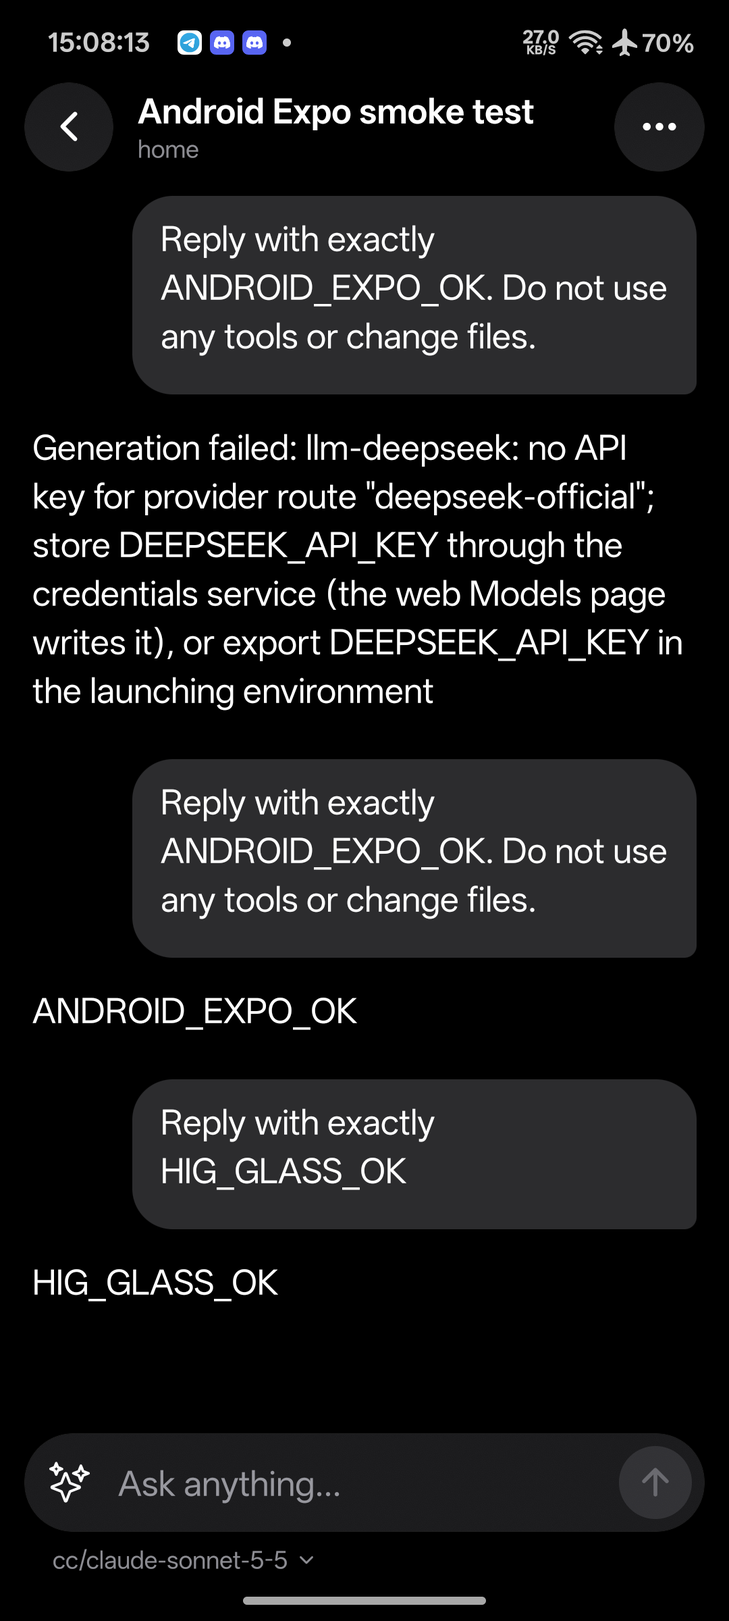
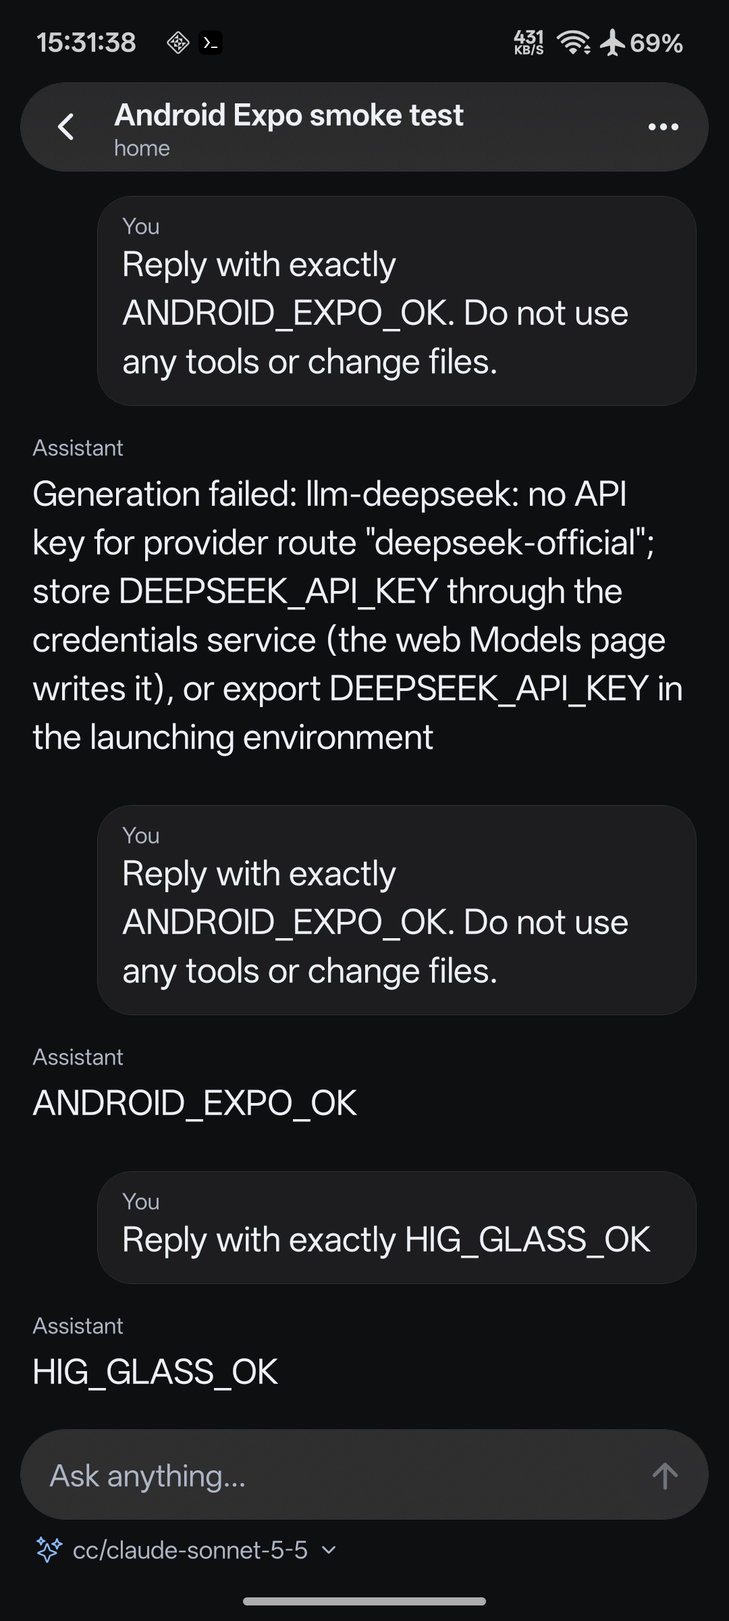
Match approved glass prototype: gray palette, single glass header bar, New task pill, prototype chat and model sheet

diff --git a/src/app/index.tsx b/src/app/index.tsx
@@ -4,8 +4,8 @@ import { Ionicons } from '@expo/vector-icons';
 import { router } from 'expo-router';
 import { useSafeAreaInsets } from 'react-native-safe-area-context';
 import { useApp } from '../state/app';
-import { Button, Empty, ErrorNotice, GlassCluster, IconButton, ScrollEdge, SearchField, Screen, T, slop } from '../components/ui';
-import { Glass, GlassTarget } from '../components/Glass';
+import { Button, Empty, ErrorNotice, Header, IconButton, ScrollEdge, SearchField, Screen, T, slop } from '../components/ui';
+import { Glass, GlassTarget, GlassTargetProvider } from '../components/Glass';
 import { sessionTitle } from '../lib/protocol';
 import { errorMessage } from '../lib/harness';
 import { groupWorkspaces } from '../lib/workspaces';
@@ -13,6 +13,7 @@ import { relativeTime } from '../lib/time';
 
 type Filter = 'All' | 'Working';
 
+/** Workspace tree home — layout and palette follow the approved glass prototype (screen 01). */
 export default function Home() {
   const { colors, sessions, workspaces, client, status, savedUrl, loading, refresh, refreshWorkspace, pending } = useApp();
   const insets = useSafeAreaInsets();
@@ -26,7 +27,7 @@ export default function Home() {
   const toggle = (id: string) => setCollapsed(p => { const next = new Set(p); if (next.has(id)) next.delete(id); else next.add(id); return next; });
   const reload = async () => { setRefreshing(true); try { await refresh(); setError(''); } catch (e) { setError(errorMessage(e)); } finally { setRefreshing(false); } };
   const host = client ? new URL(client.connection.url).host : savedUrl ? new URL(savedUrl).host : '';
-  const statusText = !host ? 'Not connected' : live ? host : status === 'cached' || status === 'disconnected' || status === 'offline' ? `${host} · Offline` : `${host} · Connecting…`;
+  const statusText = !host ? 'Not connected' : live ? host : status === 'connecting' ? `${host} · Connecting…` : `${host} · Offline`;
 
   const workspaceMenu = (title: string, ids: string[]) => {
     const run = () => { void refreshWorkspace(ids).catch(e => setError(errorMessage(e))); };
@@ -41,40 +42,40 @@ export default function Home() {
         stickySectionHeadersEnabled={false}
         keyExtractor={x => x.sessionId}
         keyboardDismissMode="on-drag"
-        refreshControl={<RefreshControl refreshing={refreshing} onRefresh={reload} tintColor={colors.muted} progressViewOffset={56} />}
-        contentContainerStyle={{ paddingTop: 56, paddingBottom: insets.bottom + 96, flexGrow: 1 }}
-        ListHeaderComponent={<View style={{ paddingHorizontal: 16, gap: 10, paddingBottom: 6 }}>
-          <View style={{ paddingTop: 2 }}><T style="largeTitle">Threads</T></View>
-          <Pressable accessibilityRole="button" accessibilityLabel={`Harness: ${statusText}. Change connection`} onPress={() => router.push('/connect')} hitSlop={8} style={{ flexDirection: 'row', alignItems: 'center', gap: 6, alignSelf: 'flex-start', marginTop: -6 }}>
-            <View style={{ width: 7, height: 7, borderRadius: 4, backgroundColor: live ? colors.live : colors.tertiary }} />
-            <T style="subhead" color="secondary" numberOfLines={1}>{statusText}</T>
-            <Ionicons name="chevron-down" size={12} color={colors.muted} />
+        refreshControl={<RefreshControl refreshing={refreshing} onRefresh={reload} tintColor={colors.muted} progressViewOffset={60} />}
+        contentContainerStyle={{ paddingTop: 60, paddingBottom: insets.bottom + 90, flexGrow: 1 }}
+        ListHeaderComponent={<View style={{ paddingHorizontal: 12, gap: 10, paddingBottom: 4 }}>
+          <Pressable accessibilityRole="button" accessibilityLabel={`Harness: ${statusText}. Change connection`} onPress={() => router.push('/connect')} hitSlop={10} style={{ flexDirection: 'row', alignItems: 'center', gap: 6, alignSelf: 'flex-start', paddingHorizontal: 6 }}>
+            <View style={{ width: 6, height: 6, borderRadius: 3, backgroundColor: live ? colors.live : colors.tertiary }} />
+            <T style="footnote" color="secondary" numberOfLines={1}>{statusText}</T>
+            <Ionicons name="chevron-down" size={11} color={colors.muted} />
           </Pressable>
-          <SearchField value={query} onChangeText={setQuery} placeholder="Search" />
-          <View style={{ flexDirection: 'row', alignItems: 'center', gap: 8 }}>
-            {(['All', 'Working'] as const).map(x => { const on = filter === x; return <Pressable key={x} accessibilityRole="button" accessibilityState={{ selected: on }} onPress={() => setFilter(x)} hitSlop={slop(30)} style={({ pressed }) => ({ height: 30, paddingHorizontal: 12, borderRadius: 15, justifyContent: 'center', flexDirection: 'row', alignItems: 'center', gap: 5, backgroundColor: on ? colors.text : colors.fill, opacity: pressed ? 0.7 : 1 })}><T style="subhead" weight="500" color={on ? colors.bg : 'primary'}>{x}</T>{x === 'Working' && workingCount ? <T style="footnote" weight="600" color={on ? colors.bg : 'secondary'}>{workingCount}</T> : null}</Pressable>; })}
+          <SearchField value={query} onChangeText={setQuery} placeholder="Search workspaces and threads" />
+          <View style={{ flexDirection: 'row', alignItems: 'center', gap: 4 }}>
+            {(['All', 'Working'] as const).map(x => { const on = filter === x; return <Pressable key={x} accessibilityRole="button" accessibilityState={{ selected: on }} onPress={() => setFilter(x)} hitSlop={slop(30)} style={({ pressed }) => ({ height: 30, paddingHorizontal: 12, borderRadius: 15, justifyContent: 'center', flexDirection: 'row', alignItems: 'center', gap: 5, backgroundColor: on ? colors.fill : 'transparent', borderWidth: StyleSheet.hairlineWidth, borderColor: on ? colors.glassEdge : 'transparent', opacity: pressed ? 0.6 : 1 })}><T style="footnote" weight="500">{x}</T>{x === 'Working' && workingCount ? <T style="caption1" color="secondary">{workingCount}</T> : null}</Pressable>; })}
             <View style={{ flex: 1 }} />
-            <T style="footnote" color="secondary">Last updated</T>
+            <T style="caption1" color="secondary">Last updated</T>
           </View>
         </View>}
-        renderSectionHeader={({ section }) => { const open = !(collapsed.has(section.id) && !query); const runningHere = section.sessions.some(x => live && x.running); return <View style={{ flexDirection: 'row', alignItems: 'center', paddingLeft: 16, paddingRight: 8, marginTop: 14 }}>
-          <Pressable accessibilityRole="button" accessibilityLabel={`${section.title}, ${section.sessions.length} threads`} accessibilityState={{ expanded: open }} onPress={() => toggle(section.id)} style={({ pressed }) => ({ flex: 1, minHeight: 36, flexDirection: 'row', alignItems: 'center', gap: 8, opacity: pressed ? 0.6 : 1 })}>
-            <Ionicons name={open ? 'chevron-down' : 'chevron-forward'} size={13} color={colors.tertiary} style={{ width: 13 }} />
-            <T style="headline" numberOfLines={1} styleOverride={{ flexShrink: 1 }}>{section.title}</T>
-            <T style="subhead" color="tertiary">{section.sessions.length}</T>
-            {!open && runningHere ? <View accessibilityLabel="Has a live thread" style={{ width: 7, height: 7, borderRadius: 4, backgroundColor: colors.live }} /> : null}
+        renderSectionHeader={({ section }) => { const open = !(collapsed.has(section.id) && !query); const runningHere = section.sessions.some(x => live && x.running); return <View style={{ flexDirection: 'row', alignItems: 'center', paddingLeft: 14, paddingRight: 6, marginTop: 8 }}>
+          <Pressable accessibilityRole="button" accessibilityLabel={`${section.title}, ${section.sessions.length} threads`} accessibilityState={{ expanded: open }} onPress={() => toggle(section.id)} style={({ pressed }) => ({ flex: 1, minHeight: 38, flexDirection: 'row', alignItems: 'center', gap: 7, opacity: pressed ? 0.6 : 1 })}>
+            <Ionicons name={open ? 'chevron-down' : 'chevron-forward'} size={12} color={colors.muted} style={{ width: 12 }} />
+            <Ionicons name={open ? 'folder-open-outline' : 'folder-outline'} size={14} color={colors.muted} />
+            <T style="subhead" numberOfLines={1} styleOverride={{ flexShrink: 1 }}>{section.title}</T>
+            <T style="caption1" color="secondary">{section.sessions.length}</T>
+            {!open && runningHere ? <View accessibilityLabel="Has a live thread" style={{ width: 6, height: 6, borderRadius: 3, backgroundColor: colors.live }} /> : null}
           </Pressable>
-          <IconButton icon="ellipsis-horizontal" size={18} tint={colors.muted} label={`Options for ${section.title}`} onPress={() => workspaceMenu(section.title, section.sessions.map(x => x.sessionId))} />
+          <IconButton icon="ellipsis-horizontal" size={17} tint={colors.muted} label={`Options for ${section.title}`} onPress={() => workspaceMenu(section.title, section.sessions.map(x => x.sessionId))} />
         </View>; }}
-        renderItem={({ item, index, section }) => {
+        renderItem={({ item }) => {
           const active = item.running && live; const attention = pending.some(p => p.agentId === item.sessionId);
-          const last = index === section.data.length - 1;
-          return <Pressable accessibilityRole="button" accessibilityLabel={`${sessionTitle(item)}${active ? ', working' : ''}${attention ? ', needs input' : ''}`} onPress={() => router.push({ pathname: '/thread/[id]', params: { id: item.sessionId, harness: client?.connection.url ?? savedUrl } })} style={({ pressed }) => ({ marginLeft: 22, paddingLeft: 14, paddingRight: 16, minHeight: 44, flexDirection: 'row', alignItems: 'center', gap: 10, backgroundColor: pressed ? colors.fill : 'transparent' })}>
-            <View style={{ position: 'absolute', left: 0, top: 0, bottom: last ? '50%' : 0, width: StyleSheet.hairlineWidth * 2, backgroundColor: colors.separator }} />
-            <View style={{ width: 7, height: 7, borderRadius: 4, backgroundColor: attention ? '#ff9f0a' : active ? colors.live : 'transparent' }} />
-            <T style="subhead" numberOfLines={1} styleOverride={{ flex: 1 }}>{sessionTitle(item)}</T>
-            <T style="footnote" color="secondary">{relativeTime(item.updatedAt)}</T>
-          </Pressable>;
+          return <View style={{ marginLeft: 19, paddingLeft: 10, paddingRight: 12, borderLeftWidth: StyleSheet.hairlineWidth * 2, borderLeftColor: colors.separator }}>
+            <Pressable accessibilityRole="button" accessibilityLabel={`${sessionTitle(item)}${active ? ', working' : ''}${attention ? ', needs input' : ''}`} onPress={() => router.push({ pathname: '/thread/[id]', params: { id: item.sessionId, harness: client?.connection.url ?? savedUrl } })} style={({ pressed }) => ({ minHeight: 38, paddingHorizontal: 9, flexDirection: 'row', alignItems: 'center', gap: 8, borderRadius: 10, backgroundColor: pressed ? colors.fill : 'transparent' })}>
+              <View style={{ width: 6, height: 6, borderRadius: 3, backgroundColor: attention ? '#ffb74d' : active ? colors.live : 'transparent' }} />
+              <T style="footnote" numberOfLines={1} styleOverride={{ flex: 1 }}>{sessionTitle(item)}</T>
+              <T style="caption2" color="secondary">{relativeTime(item.updatedAt)}</T>
+            </Pressable>
+          </View>;
         }}
         ListEmptyComponent={<View style={{ flex: 1, justifyContent: 'center', paddingTop: 40, gap: 20 }}>
           <Empty icon={client ? 'search' : 'server-outline'} title={client ? 'No Threads' : 'Connect a Harness'} detail={client ? (query ? 'No threads match your search.' : 'Start a new task to see it here.') : 'Add your Harness URL and token to see your workspaces and threads.'} />
@@ -87,15 +88,18 @@ export default function Home() {
     {/* Floating control layer */}
     <View pointerEvents="box-none" style={{ position: 'absolute', top: insets.top, left: 0, right: 0 }}>
       <ScrollEdge height={64} />
-      <View style={{ flexDirection: 'row', alignItems: 'center', paddingHorizontal: 16, paddingTop: 6 }}>
-        <View style={{ flex: 1 }} />
-        <GlassCluster><IconButton icon="settings-outline" size={21} label="Settings" onPress={() => router.push('/settings')} /></GlassCluster>
-      </View>
+      <GlassTargetProvider value={target}>
+        <Header title="DSH" large leading={<View style={{ width: 8 }} />}>
+          <IconButton icon="settings-outline" size={19} label="Settings" onPress={() => router.push('/settings')} />
+        </Header>
+      </GlassTargetProvider>
     </View>
-    {client ? <View pointerEvents="box-none" style={{ position: 'absolute', right: 16, bottom: insets.bottom + 12 }}>
-      <Pressable accessibilityRole="button" accessibilityLabel="New thread" onPress={() => router.push('/new')} style={({ pressed }) => ({ opacity: pressed ? 0.7 : 1 })}>
-        <Glass radius={28} interactive prominent style={{ width: 56, height: 56, alignItems: 'center', justifyContent: 'center' }}><Ionicons name="create-outline" size={24} color={colors.text} /></Glass>
-      </Pressable>
+    {client ? <View pointerEvents="box-none" style={{ position: 'absolute', right: 14, bottom: insets.bottom + 14 }}>
+      <GlassTargetProvider value={target}>
+        <Pressable accessibilityRole="button" accessibilityLabel="New task" onPress={() => router.push('/new')} hitSlop={4} style={({ pressed }) => ({ opacity: pressed ? 0.7 : 1 })}>
+          <Glass radius={22} interactive prominent style={{ height: 44, paddingHorizontal: 18, flexDirection: 'row', alignItems: 'center', gap: 8 }}><Ionicons name="add" size={20} color={colors.text} /><T style="footnote" weight="600">New task</T></Glass>
+        </Pressable>
+      </GlassTargetProvider>
     </View> : null}
   </Screen>;
 }

diff --git a/src/components/ui.tsx b/src/components/ui.tsx
@@ -60,14 +60,17 @@ export function GlassCluster({ children, style }: { children: React.ReactNode; s
  * Compact navigation bar. Controls float as glass capsules over a scroll-edge fade,
  * leaving the content layer untouched (HIG: Materials, Scroll views).
  */
-export function Header({ title, subtitle, back = false, large = false, children }: { title: string; subtitle?: string; back?: boolean; compact?: boolean; large?: boolean; children?: React.ReactNode }) {
+export function Header({ title, subtitle, back = false, large = false, leading, children }: { title: string; subtitle?: string; back?: boolean; compact?: boolean; large?: boolean; leading?: React.ReactNode; children?: React.ReactNode }) {
+  // One slim glass bar holding back · title · actions (matches the approved prototype).
   return <View style={s.header}>
-    {back && <GlassCluster style={{ width: 44, paddingHorizontal: 0, justifyContent: 'center' }}><IconButton icon="chevron-back" label="Back" onPress={() => router.canGoBack() ? router.back() : router.replace('/')} /></GlassCluster>}
-    <View style={{ flex: 1, paddingHorizontal: back ? 6 : 4, justifyContent: 'center' }}>
-      <T style={large ? 'title2' : 'headline'} numberOfLines={1}>{title}</T>
-      {subtitle ? <T style="caption1" color="secondary" numberOfLines={1}>{subtitle}</T> : null}
-    </View>
-    {children ? <GlassCluster>{children}</GlassCluster> : null}
+    <Glass radius={22} style={{ flex: 1, minHeight: 44, flexDirection: 'row', alignItems: 'center', paddingHorizontal: 4, gap: 2 }}>
+      {back ? <IconButton icon="chevron-back" size={20} label="Back" onPress={() => router.canGoBack() ? router.back() : router.replace('/')} /> : leading ?? <View style={{ width: 10 }} />}
+      <View style={{ flex: 1, paddingHorizontal: 4, paddingVertical: subtitle ? 4 : 0, justifyContent: 'center' }}>
+        <T style={large ? 'title3' : 'subhead'} weight="600" numberOfLines={1}>{title}</T>
+        {subtitle ? <T style="caption2" color="secondary" numberOfLines={1}>{subtitle}</T> : null}
+      </View>
+      {children}
+    </Glass>
   </View>;
 }
 
@@ -82,20 +85,23 @@ export function ScrollEdge({ edge = 'top', height = 28 }: { edge?: 'top' | 'bott
 export function Button({ title, onPress, loading, disabled, secondary = false, destructive = false, icon }: { title: string; onPress: () => void; loading?: boolean; disabled?: boolean; secondary?: boolean; destructive?: boolean; icon?: IconName }) {
   const { colors } = useApp();
   const fg = secondary ? (destructive ? colors.danger : colors.primary) : '#ffffff';
-  return <Pressable accessibilityRole="button" accessibilityState={{ disabled: !!(disabled || loading), busy: !!loading }} disabled={disabled || loading} onPress={onPress} style={({ pressed }) => ({ height: 50, paddingHorizontal: 20, borderRadius: 25, flexDirection: 'row', gap: 8, alignItems: 'center', justifyContent: 'center', backgroundColor: secondary ? colors.fill : destructive ? colors.danger : colors.primary, opacity: disabled ? 0.4 : pressed ? 0.7 : 1 })}>{loading ? <ActivityIndicator color={fg} /> : <>{icon && <Ionicons name={icon} size={18} color={fg} />}<T style="headline" color={fg}>{title}</T></>}</Pressable>;
+  // Prototype style: off-white pill with dark label for the primary action; quiet hairline pill otherwise.
+  const primaryFg = colors.bg;
+  const label = secondary ? fg : destructive ? '#ffffff' : primaryFg;
+  return <Pressable accessibilityRole="button" accessibilityState={{ disabled: !!(disabled || loading), busy: !!loading }} disabled={disabled || loading} onPress={onPress} style={({ pressed }) => ({ height: 46, paddingHorizontal: 20, borderRadius: 23, flexDirection: 'row', gap: 8, alignItems: 'center', justifyContent: 'center', backgroundColor: secondary ? colors.fill : destructive ? colors.danger : colors.text, borderWidth: secondary ? StyleSheet.hairlineWidth : 0, borderColor: colors.border, opacity: disabled ? 0.4 : pressed ? 0.7 : 1 })}>{loading ? <ActivityIndicator color={label} /> : <>{icon && <Ionicons name={icon} size={18} color={label} />}<T style="headline" color={label}>{title}</T></>}</Pressable>;
 }
 
 /** Grouped inset text field with a footnote label above. */
 export function Field({ label, ...props }: TextInputProps & { label: string }) {
   const { colors } = useApp();
-  return <View style={{ gap: 6 }}><View style={{ paddingHorizontal: 16 }}><T style="footnote" color="secondary">{label.toUpperCase()}</T></View><TextInput accessibilityLabel={label} placeholderTextColor={colors.tertiary} {...props} style={[type.body, { borderRadius: 12, backgroundColor: colors.grouped, color: colors.text, paddingHorizontal: 16, height: 44 }, props.multiline && { height: undefined, minHeight: 88, paddingVertical: 11, textAlignVertical: 'top' }, props.style]} /></View>;
+  return <View style={{ gap: 6 }}><View style={{ paddingHorizontal: 16 }}><T style="footnote" color="secondary">{label.toUpperCase()}</T></View><TextInput accessibilityLabel={label} placeholderTextColor={colors.tertiary} {...props} style={[type.body, { borderRadius: 14, backgroundColor: colors.grouped, borderWidth: StyleSheet.hairlineWidth, borderColor: colors.border, color: colors.text, paddingHorizontal: 16, height: 44 }, props.multiline && { height: undefined, minHeight: 88, paddingVertical: 11, textAlignVertical: 'top' }, props.style]} /></View>;
 }
 
 /** Search field: 36 pt capsule with a magnifying glass, matching the iOS search bar. */
 export function SearchField({ value, onChangeText, placeholder, glass = false }: { value: string; onChangeText: (v: string) => void; placeholder: string; glass?: boolean }) {
   const { colors } = useApp();
   const inner = <><Ionicons name="search" size={16} color={colors.muted} /><TextInput accessibilityLabel={placeholder} value={value} onChangeText={onChangeText} placeholder={placeholder} placeholderTextColor={colors.muted} returnKeyType="search" clearButtonMode="while-editing" style={[type.body, { flex: 1, color: colors.text, paddingVertical: 0, height: 36 }]} />{value && Platform.OS !== 'ios' ? <IconButton icon="close-circle" size={17} tint={colors.tertiary} label="Clear search" onPress={() => onChangeText('')} /> : null}</>;
-  return glass ? <Glass radius={18} style={s.search}>{inner}</Glass> : <View style={[s.search, { backgroundColor: colors.fill }]}>{inner}</View>;
+  return glass ? <Glass radius={18} style={s.search}>{inner}</Glass> : <View style={[s.search, { backgroundColor: colors.fill, borderWidth: StyleSheet.hairlineWidth, borderColor: colors.border }]}>{inner}</View>;
 }
 
 /** iOS grouped-inset section: footnote caps header, rounded container, optional footer. */
@@ -103,7 +109,7 @@ export function Section({ header, footer, children }: { header?: string; footer?
   const { colors } = useApp();
   return <View style={{ gap: 6 }}>
     {header ? <View style={{ paddingHorizontal: 16 }}><T style="footnote" color="secondary">{header.toUpperCase()}</T></View> : null}
-    <View style={{ backgroundColor: colors.grouped, borderRadius: 12, overflow: 'hidden' }}>{React.Children.toArray(children).filter(Boolean).map((child, i) => <View key={i}>{i > 0 && <View style={{ height: StyleSheet.hairlineWidth, backgroundColor: colors.separator, marginLeft: 16 }} />}{child}</View>)}</View>
+    <View style={{ backgroundColor: colors.grouped, borderRadius: 14, overflow: 'hidden', borderWidth: StyleSheet.hairlineWidth, borderColor: colors.border }}>{React.Children.toArray(children).filter(Boolean).map((child, i) => <View key={i}>{i > 0 && <View style={{ height: StyleSheet.hairlineWidth, backgroundColor: colors.separator, marginLeft: 16 }} />}{child}</View>)}</View>
     {footer ? <View style={{ paddingHorizontal: 16 }}><T style="footnote" color="secondary">{footer}</T></View> : null}
   </View>;
 }
@@ -129,7 +135,7 @@ export function Empty({ icon = 'chatbubble-outline', title, detail }: { icon?: I
 }
 
 export const s = StyleSheet.create({
-  header: { flexDirection: 'row', alignItems: 'center', paddingHorizontal: 12, paddingTop: 4, paddingBottom: 8, gap: 6, minHeight: 52 },
+  header: { flexDirection: 'row', alignItems: 'center', paddingHorizontal: 10, paddingTop: 4, paddingBottom: 8, minHeight: 56 },
   body: { padding: 16, gap: 24 },
   row: { flexDirection: 'row', alignItems: 'center', gap: 8 },
   search: { height: 36, borderRadius: 18, paddingHorizontal: 10, flexDirection: 'row', alignItems: 'center', gap: 6 },

diff --git a/src/components/ChatComposer.tsx b/src/components/ChatComposer.tsx
@@ -7,8 +7,8 @@ import { Glass } from './Glass';
 import { T, slop, type } from './ui';
 
 /**
- * Floating glass composer (HIG: controls on the glass layer, 44 pt targets).
- * One slim capsule: model chip · growing text field · circular send/stop.
+ * Floating glass composer, as in the approved prototype (screen 02):
+ * slim pill · growing text field · off-white circular send, with a quiet ✧ model selector beneath.
  */
 export function ChatComposer({ sessionId, draft, onChange, onSend, onStop, running, busy, disabled }: { sessionId: string; draft: string; onChange: (v: string) => void; onSend: () => void; onStop: () => void; running: boolean; busy: boolean; disabled: boolean }) {
   const { colors, sessions } = useApp(); const [picker, setPicker] = useState(false); const [chosen, setChosen] = useState('');
@@ -17,13 +17,16 @@ export function ChatComposer({ sessionId, draft, onChange, onSend, onStop, runni
   const stop = running && !draft.trim();
   const canSend = !busy && !disabled && (stop || !!draft.trim());
   return <>
-    <View style={{ paddingHorizontal: 12, paddingTop: 6, paddingBottom: 6, gap: 6 }}>
-      <Glass radius={24} interactive style={{ minHeight: 48, flexDirection: 'row', alignItems: 'flex-end', paddingLeft: 4, paddingRight: 6, paddingVertical: 6 }}>
-        <Pressable accessibilityRole="button" accessibilityLabel={model ? `Model: ${model}. Change model` : 'Choose model'} onPress={() => setPicker(true)} hitSlop={slop(36)} style={({ pressed }) => ({ width: 36, height: 36, borderRadius: 18, alignItems: 'center', justifyContent: 'center', opacity: pressed ? 0.5 : 1 })}><Ionicons name="sparkles-outline" size={20} color={colors.text} /></Pressable>
-        <TextInput accessibilityLabel="Message" value={draft} onChangeText={onChange} multiline placeholder={disabled ? 'Reconnect to send…' : 'Ask anything…'} placeholderTextColor={colors.muted} editable={!disabled} style={[type.body, { flex: 1, color: colors.text, minHeight: 36, maxHeight: 132, paddingHorizontal: 6, paddingTop: 7, paddingBottom: 7, textAlignVertical: 'top' }]} />
-        <Pressable accessibilityRole="button" accessibilityLabel={stop ? 'Stop' : 'Send'} disabled={!canSend} onPress={stop ? onStop : onSend} hitSlop={slop(36)} style={({ pressed }) => ({ width: 36, height: 36, borderRadius: 18, alignItems: 'center', justifyContent: 'center', backgroundColor: canSend ? colors.primary : colors.fill, opacity: pressed ? 0.7 : 1 })}><Ionicons name={stop ? 'stop' : 'arrow-up'} size={stop ? 15 : 20} color={canSend ? '#ffffff' : colors.tertiary} /></Pressable>
+    <View style={{ paddingHorizontal: 10, paddingTop: 6, paddingBottom: 4 }}>
+      <Glass radius={23} interactive style={{ minHeight: 44, flexDirection: 'row', alignItems: 'flex-end', paddingLeft: 14, paddingRight: 4, paddingVertical: 4 }}>
+        <TextInput accessibilityLabel="Message" value={draft} onChangeText={onChange} multiline placeholder={disabled ? 'Reconnect to send…' : 'Ask anything…'} placeholderTextColor={colors.muted} editable={!disabled} style={[type.subhead, { flex: 1, color: colors.text, minHeight: 36, maxHeight: 132, paddingHorizontal: 0, paddingTop: 8, paddingBottom: 8, textAlignVertical: 'top' }]} />
+        <Pressable accessibilityRole="button" accessibilityLabel={stop ? 'Stop' : 'Send'} disabled={!canSend} onPress={stop ? onStop : onSend} hitSlop={slop(34)} style={({ pressed }) => ({ width: 34, height: 34, borderRadius: 17, marginLeft: 6, alignItems: 'center', justifyContent: 'center', backgroundColor: canSend ? colors.text : colors.fill, opacity: pressed ? 0.7 : 1 })}><Ionicons name={stop ? 'stop' : 'arrow-up'} size={stop ? 14 : 19} color={canSend ? colors.bg : colors.tertiary} /></Pressable>
       </Glass>
-      {model ? <Pressable accessibilityRole="button" accessibilityLabel={`Model: ${model}. Change model`} onPress={() => setPicker(true)} hitSlop={{ top: 10, bottom: 10, left: 8, right: 8 }} style={({ pressed }) => ({ alignSelf: 'flex-start', marginLeft: 14, flexDirection: 'row', alignItems: 'center', gap: 4, opacity: pressed ? 0.5 : 1 })}><T style="caption1" color="secondary" numberOfLines={1}>{model}</T><Ionicons name="chevron-down" size={10} color={colors.muted} /></Pressable> : null}
+      <Pressable accessibilityRole="button" accessibilityLabel={model ? `Model: ${model}. Change model` : 'Choose model'} onPress={() => setPicker(true)} hitSlop={{ top: 8, bottom: 8, left: 6, right: 6 }} style={({ pressed }) => ({ alignSelf: 'flex-start', minHeight: 30, marginLeft: 8, flexDirection: 'row', alignItems: 'center', gap: 5, opacity: pressed ? 0.5 : 1 })}>
+        <Ionicons name="sparkles-outline" size={13} color={colors.primary} />
+        <T style="caption1" color="secondary" numberOfLines={1}>{model || 'Choose model'}</T>
+        <Ionicons name="chevron-down" size={10} color={colors.muted} />
+      </Pressable>
     </View>
     <ModelPicker sessionId={sessionId} visible={picker} onClose={() => setPicker(false)} onSelected={setChosen} current={model} />
   </>;

diff --git a/src/components/ModelPicker.tsx b/src/components/ModelPicker.tsx
@@ -1,25 +1,30 @@
 import { useEffect, useMemo, useState } from 'react';
-import { ActivityIndicator, Pressable, ScrollView, View } from 'react-native';
+import { ActivityIndicator, Pressable, ScrollView, StyleSheet, View } from 'react-native';
+import { Ionicons } from '@expo/vector-icons';
 import { useApp } from '../state/app';
 import { errorMessage } from '../lib/harness';
-import { ErrorNotice, Row, SearchField, Section } from './ui';
+import { ErrorNotice, SearchField, T } from './ui';
 import { Sheet } from './Sheet';
 
-/** Model selection sheet: searchable, grouped by provider, current model checked (HIG lists + sheets). */
+/** "Choose model" sheet as in the approved prototype (screen 03): caps provider labels, outlined selected row. */
 export function ModelPicker({ sessionId, visible, onClose, onSelected, current }: { sessionId: string; visible: boolean; onClose: () => void; onSelected: (label: string) => void; current?: string }) {
   const { client, colors, refresh } = useApp(); const [catalog, setCatalog] = useState<any>(null); const [query, setQuery] = useState(''); const [error, setError] = useState(''); const [busy, setBusy] = useState(false);
   useEffect(() => { if (!visible || !client) return; let active = true; void client.call('session/modelCatalog', {}).then(c => { if (active) setCatalog(c); }).catch(e => { if (active) setError(errorMessage(e)); }); return () => { active = false; }; }, [client, visible]);
   const groups = useMemo(() => (catalog?.groups ?? catalog?.providers ?? []).map((g: any) => ({ ...g, models: (g.models ?? []).filter((m: any) => `${m.name ?? ''} ${m.id}`.toLowerCase().includes(query.toLowerCase())) })).filter((g: any) => g.models.length), [catalog, query]);
   const select = async (provider: string, model: any) => { if (!client) return; setBusy(true); try { await client.request('session/selectModel', { sessionId, provider, model: model.id }); await refresh(); onSelected(model.name ?? model.id); onClose(); } catch (e) { setError(errorMessage(e)); } finally { setBusy(false); } };
-  return <Sheet visible={visible} onClose={onClose} title="Model">
-    <View style={{ paddingHorizontal: 16, paddingBottom: 8 }}><SearchField value={query} onChangeText={setQuery} placeholder="Search Models" /></View>
+  return <Sheet visible={visible} onClose={onClose} title="Choose model">
+    <View style={{ paddingHorizontal: 12, paddingBottom: 4 }}><SearchField value={query} onChangeText={setQuery} placeholder="Search models" /></View>
     <ErrorNotice message={error} />
-    <ScrollView keyboardShouldPersistTaps="handled" contentContainerStyle={{ paddingHorizontal: 16, paddingTop: 8, paddingBottom: 24, gap: 22 }}>
+    <ScrollView keyboardShouldPersistTaps="handled" contentContainerStyle={{ paddingHorizontal: 12, paddingTop: 4, paddingBottom: 24 }}>
       {!catalog && !error ? <ActivityIndicator color={colors.muted} style={{ marginTop: 24 }} /> : null}
-      {catalog && !groups.length ? <Pressable onPress={() => setQuery('')}><Row title="No Models Found" subtitle="Clear the search to see all models." /></Pressable> : null}
-      {groups.map((group: any) => <Section key={group.id} header={group.name ?? group.id}>
-        {group.models.map((model: any) => { const label = model.name ?? model.id; return <Row key={model.id} title={label} subtitle={model.name && model.name !== model.id ? model.id : undefined} selected={current === label || current === model.id} chevron={false} onPress={busy ? undefined : () => void select(group.id, model)} />; })}
-      </Section>)}
+      {catalog && !groups.length ? <View style={{ padding: 16 }}><T style="footnote" color="secondary" align="center">No models match your search.</T></View> : null}
+      {groups.map((group: any) => <View key={group.id}>
+        <View style={{ paddingHorizontal: 8, paddingTop: 12, paddingBottom: 4 }}><T style="caption2" color="secondary" weight="500" styleOverride={{ letterSpacing: 0.6 }}>{String(group.name ?? group.id).toUpperCase()}</T></View>
+        {group.models.map((model: any) => { const label = model.name ?? model.id; const on = current === label || current === model.id; return <Pressable key={model.id} accessibilityRole="button" accessibilityState={{ selected: on, disabled: busy }} disabled={busy} onPress={() => void select(group.id, model)} style={({ pressed }) => ({ minHeight: 44, paddingHorizontal: 10, paddingVertical: 7, borderRadius: 12, flexDirection: 'row', alignItems: 'center', gap: 8, backgroundColor: on || pressed ? colors.fill : 'transparent', borderWidth: StyleSheet.hairlineWidth, borderColor: on ? colors.glassEdge : 'transparent' })}>
+          <View style={{ flex: 1 }}><T style="footnote" numberOfLines={1}>{label}</T>{model.name && model.name !== model.id ? <T style="caption2" color="secondary" numberOfLines={1}>{model.id}</T> : null}</View>
+          {on ? <Ionicons name="checkmark" size={16} color={colors.primary} /> : null}
+        </Pressable>; })}
+      </View>)}
     </ScrollView>
   </Sheet>;
 }

diff --git a/src/app/thread/[id].tsx b/src/app/thread/[id].tsx
@@ -1,5 +1,5 @@
 import { useCallback, useMemo, useRef, useState } from 'react';
-import { ActivityIndicator, FlatList, KeyboardAvoidingView, Platform, Pressable, View } from 'react-native';
+import { ActivityIndicator, FlatList, KeyboardAvoidingView, Platform, Pressable, StyleSheet, View } from 'react-native';
 import { Ionicons } from '@expo/vector-icons';
 import { Glass, GlassTarget, GlassTargetProvider } from '../../components/Glass';
 import { useLocalSearchParams, router, useFocusEffect } from 'expo-router';
@@ -93,9 +93,9 @@ export default function Thread() {
           renderItem={({ item }) => item.kind === 'tool' || item.kind === 'event'
             ? <Disclosure title={item.label ?? 'Activity'} text={item.text} />
             : item.kind === 'user'
-              ? <View accessibilityLabel={`You said: ${item.text}`} style={{ alignSelf: 'flex-end', maxWidth: '85%', paddingHorizontal: 14, paddingVertical: 9, backgroundColor: colors.bubble, borderRadius: 20, borderBottomRightRadius: 6 }}><MessageMarkdown text={item.text} /></View>
-              : <View><MessageMarkdown text={item.text} /></View>}
-          ListFooterComponent={<View style={{ gap: 14 }}>{live ? <View><MessageMarkdown text={live} /></View> : working && status === 'connected' ? <View style={{ flexDirection: 'row', alignItems: 'center', gap: 8, paddingVertical: 4 }}><ActivityIndicator size="small" color={colors.muted} /><T style="footnote" color="secondary">Working…</T></View> : null}{pending.filter(p => p.agentId === id).map(p => <PendingRequest key={`${p.clientId}:${p.eventId}`} frame={p} />)}</View>} />
+              ? <View style={{ marginLeft: 32, paddingHorizontal: 12, paddingTop: 8, paddingBottom: 2, backgroundColor: colors.bubble, borderRadius: 17, borderWidth: StyleSheet.hairlineWidth, borderColor: colors.border }}><T style="caption2" color="secondary">You</T><MessageMarkdown text={item.text} /></View>
+              : <View><View style={{ marginBottom: 4 }}><T style="caption2" color="secondary">Assistant</T></View><MessageMarkdown text={item.text} /></View>}
+          ListFooterComponent={<View style={{ gap: 14 }}>{live ? <View><View style={{ marginBottom: 4 }}><T style="caption2" color="secondary">Assistant · working</T></View><MessageMarkdown text={live} /></View> : working && status === 'connected' ? <View style={{ flexDirection: 'row', alignItems: 'center', gap: 8, paddingVertical: 4 }}><ActivityIndicator size="small" color={colors.muted} /><T style="footnote" color="secondary">Working…</T></View> : null}{pending.filter(p => p.agentId === id).map(p => <PendingRequest key={`${p.clientId}:${p.eventId}`} frame={p} />)}</View>} />
         <ScrollEdge height={56} />
         {jumpVisible ? <View pointerEvents="box-none" style={{ position: 'absolute', bottom: 10, left: 0, right: 0, alignItems: 'center' }}><Pressable accessibilityRole="button" accessibilityLabel="Scroll to latest message" onPress={toLatest} hitSlop={4}><Glass radius={18} interactive style={{ width: 36, height: 36, alignItems: 'center', justifyContent: 'center' }}><Ionicons name="arrow-down" size={18} color={colors.text} /></Glass></Pressable></View> : null}
       </GlassTarget>
@@ -106,7 +106,7 @@ export default function Thread() {
       <View pointerEvents="box-none" style={{ position: 'absolute', top: 0, left: 0, right: 0 }}>
         <GlassTargetProvider value={target}>
           <Header title={session ? sessionTitle(session) : 'Thread'} subtitle={subtitle || undefined} back>
-            <IconButton icon="ellipsis-horizontal" size={20} label="Thread details" onPress={() => router.push({ pathname: '/thread/details', params: { id } })} />
+            <IconButton icon="ellipsis-horizontal" size={18} label="Thread details" onPress={() => router.push({ pathname: '/thread/details', params: { id } })} />
           </Header>
         </GlassTargetProvider>
       </View>

diff --git a/src/state/app.tsx b/src/state/app.tsx
@@ -7,8 +7,10 @@ import { cacheEpoch, readCatalog, writeCatalog, clearWorkspaceHistory } from '..
 type ThemeMode = 'system' | 'light' | 'dark';
 // Apple HIG semantic system colors (iOS light / dark). Glass tones follow the materials guidance:
 // glass only on the control layer, content stays on solid backgrounds.
-const light = { dark: false, bg: '#ffffff', card: '#ffffff', grouped: '#f2f2f7', text: '#000000', muted: '#3c3c4399', tertiary: '#3c3c434d', border: '#3c3c4333', separator: '#c6c6c8', primary: '#007aff', bubble: '#e9e9eb', danger: '#ff3b30', success: '#34c759', live: '#34c759', glass: '#f9f9f9cc', glassEdge: '#ffffffb3', fill: '#7878801f' };
-const dark = { dark: true, bg: '#000000', card: '#1c1c1e', grouped: '#1c1c1e', text: '#ffffff', muted: '#ebebf599', tertiary: '#ebebf54d', border: '#54545899', separator: '#38383a', primary: '#0a84ff', bubble: '#2c2c2e', danger: '#ff453a', success: '#30d158', live: '#30d158', glass: '#1e1e20cc', glassEdge: '#ffffff1f', fill: '#7878803d' };
+// Palette taken from the approved glass prototype (designs/android-glass-preview): soft charcoal / cool-gray,
+// warm-gray glass with a light hairline edge, off-white text, soft blue accent.
+const light = { dark: false, bg: '#edf1f5', card: '#ffffff', grouped: '#ffffff8a', text: '#202936', muted: '#586677', tertiary: '#58667799', border: '#29426026', separator: '#29426026', primary: '#1c65b9', bubble: '#ffffff8a', danger: '#c62828', success: '#2e7d32', live: '#1c65b9', glass: '#ffffffb3', glassEdge: '#fffffff2', fill: '#2942601a' };
+const dark = { dark: true, bg: '#0e0f11', card: '#1c1c1f', grouped: '#2e2e3175', text: '#edf0f6', muted: '#aeb6c5', tertiary: '#aeb6c580', border: '#d3dff426', separator: '#d3dff426', primary: '#89baff', bubble: '#2e2e3175', danger: '#ff8a80', success: '#81c995', live: '#89baff', glass: '#303032a8', glassEdge: '#e0ebff29', fill: '#2e2e3175' };
 export type Colors = typeof light;
 type AppState = { client: HarnessClient | null; sessions: Session[]; workspaces: Frame[]; status: string; savedUrl: string; loading: boolean; pending: Frame[]; theme: ThemeMode; colors: Colors; connect: (c: Connection) => Promise<void>; disconnect: () => Promise<void>; refresh: () => Promise<void>; refreshWorkspace: (ids: string[]) => Promise<void>; setTheme: (t: ThemeMode) => void; dismiss: (id: string) => void };
 const Context = createContext<AppState | null>(null);

diff --git a/src/components/Sheet.tsx b/src/components/Sheet.tsx
@@ -54,10 +54,9 @@ function SheetBody({ onClose, title, children, height }: { onClose: () => void; 
       <Glass radius={28} prominent solidOnAndroid style={{ flex: 1, borderBottomLeftRadius: 0, borderBottomRightRadius: 0, paddingBottom: insets.bottom }}>
         <View {...handlers}>
           <Pressable accessibilityRole="button" accessibilityLabel="Dismiss sheet" accessibilityHint="Swipe down or tap to close" onPress={close} style={{ height: 22, alignItems: 'center', justifyContent: 'center' }}><View style={{ width: 36, height: 5, borderRadius: 3, backgroundColor: colors.tertiary }} /></Pressable>
-          <View style={{ flexDirection: 'row', alignItems: 'center', paddingHorizontal: 16, paddingBottom: 10, minHeight: 36 }}>
-            <View style={{ width: 36 }} />
-            <View style={{ flex: 1, alignItems: 'center' }}><T style="headline">{title}</T></View>
-            <View style={{ width: 36, height: 36, borderRadius: 18, backgroundColor: colors.fill, alignItems: 'center', justifyContent: 'center' }}><IconButton icon="close" size={18} tint={colors.muted} label="Close" onPress={close} /></View>
+          <View style={{ flexDirection: 'row', alignItems: 'center', paddingLeft: 16, paddingRight: 8, paddingBottom: 6, minHeight: 40 }}>
+            <View style={{ flex: 1 }}><T style="headline">{title}</T></View>
+            <IconButton icon="close" size={20} tint={colors.text} label="Close" onPress={close} />
           </View>
         </View>
         {children}

diff --git a/src/components/Glass.tsx b/src/components/Glass.tsx
@@ -41,7 +41,7 @@ export function Glass({ children, style, radius = 22, interactive = false, promi
   const shadow: ViewStyle = Platform.OS === 'android' ? { elevation: 0 } : { boxShadow: colors.dark ? '0 6px 20px #00000059' : '0 6px 20px #0000001a' };
 
   // Without anything to blur (e.g. a sheet over a scrim) translucency only hurts legibility.
-  if (reduce || (solidOnAndroid && Platform.OS !== 'ios')) return <View style={[shape, edge, { backgroundColor: colors.dark ? colors.card : colors.bg }, style]}>{children}</View>;
+  if (reduce || (solidOnAndroid && Platform.OS !== 'ios')) return <View style={[shape, edge, { backgroundColor: colors.dark ? '#28282a' : '#f7f8fa' }, style]}>{children}</View>;
 
   if (NATIVE_GLASS) {
     return <View style={[{ borderRadius: radius }, shadow]}><GlassView glassEffectStyle="regular" isInteractive={interactive} colorScheme={colors.dark ? 'dark' : 'light'} style={[shape, style]}>{children}</GlassView></View>;
